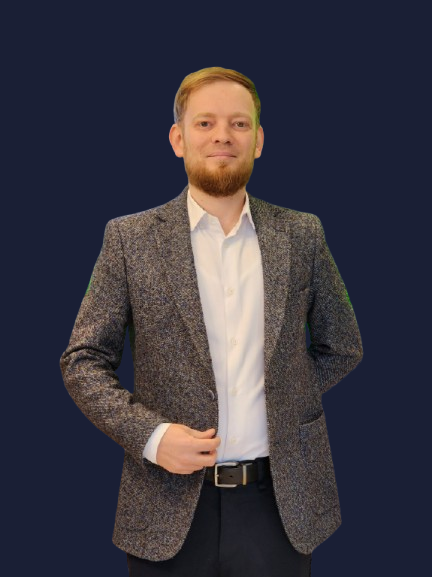
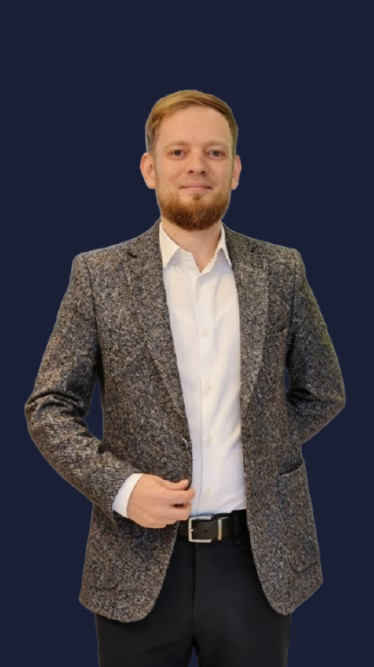
New founder photo, object-cover object-top to fill card height evenly

Changed region(s): [[0.0588, 0.0936, 0.9412, 1.0], [0.5, 0.9359, 0.5294, 1.0]]

diff --git a/src/components/sections/AboutPage.tsx b/src/components/sections/AboutPage.tsx
@@ -173,7 +173,7 @@ export function AboutPage({
                     alt={a.team?.[0]?.name || "Costa Fofanoff"}
                     width={400}
                     height={500}
-                    className="w-full h-[280px] md:h-full object-contain object-bottom"
+                    className="w-full h-full object-cover object-top"
                   />
                 </div>
                 {/* Content */}
